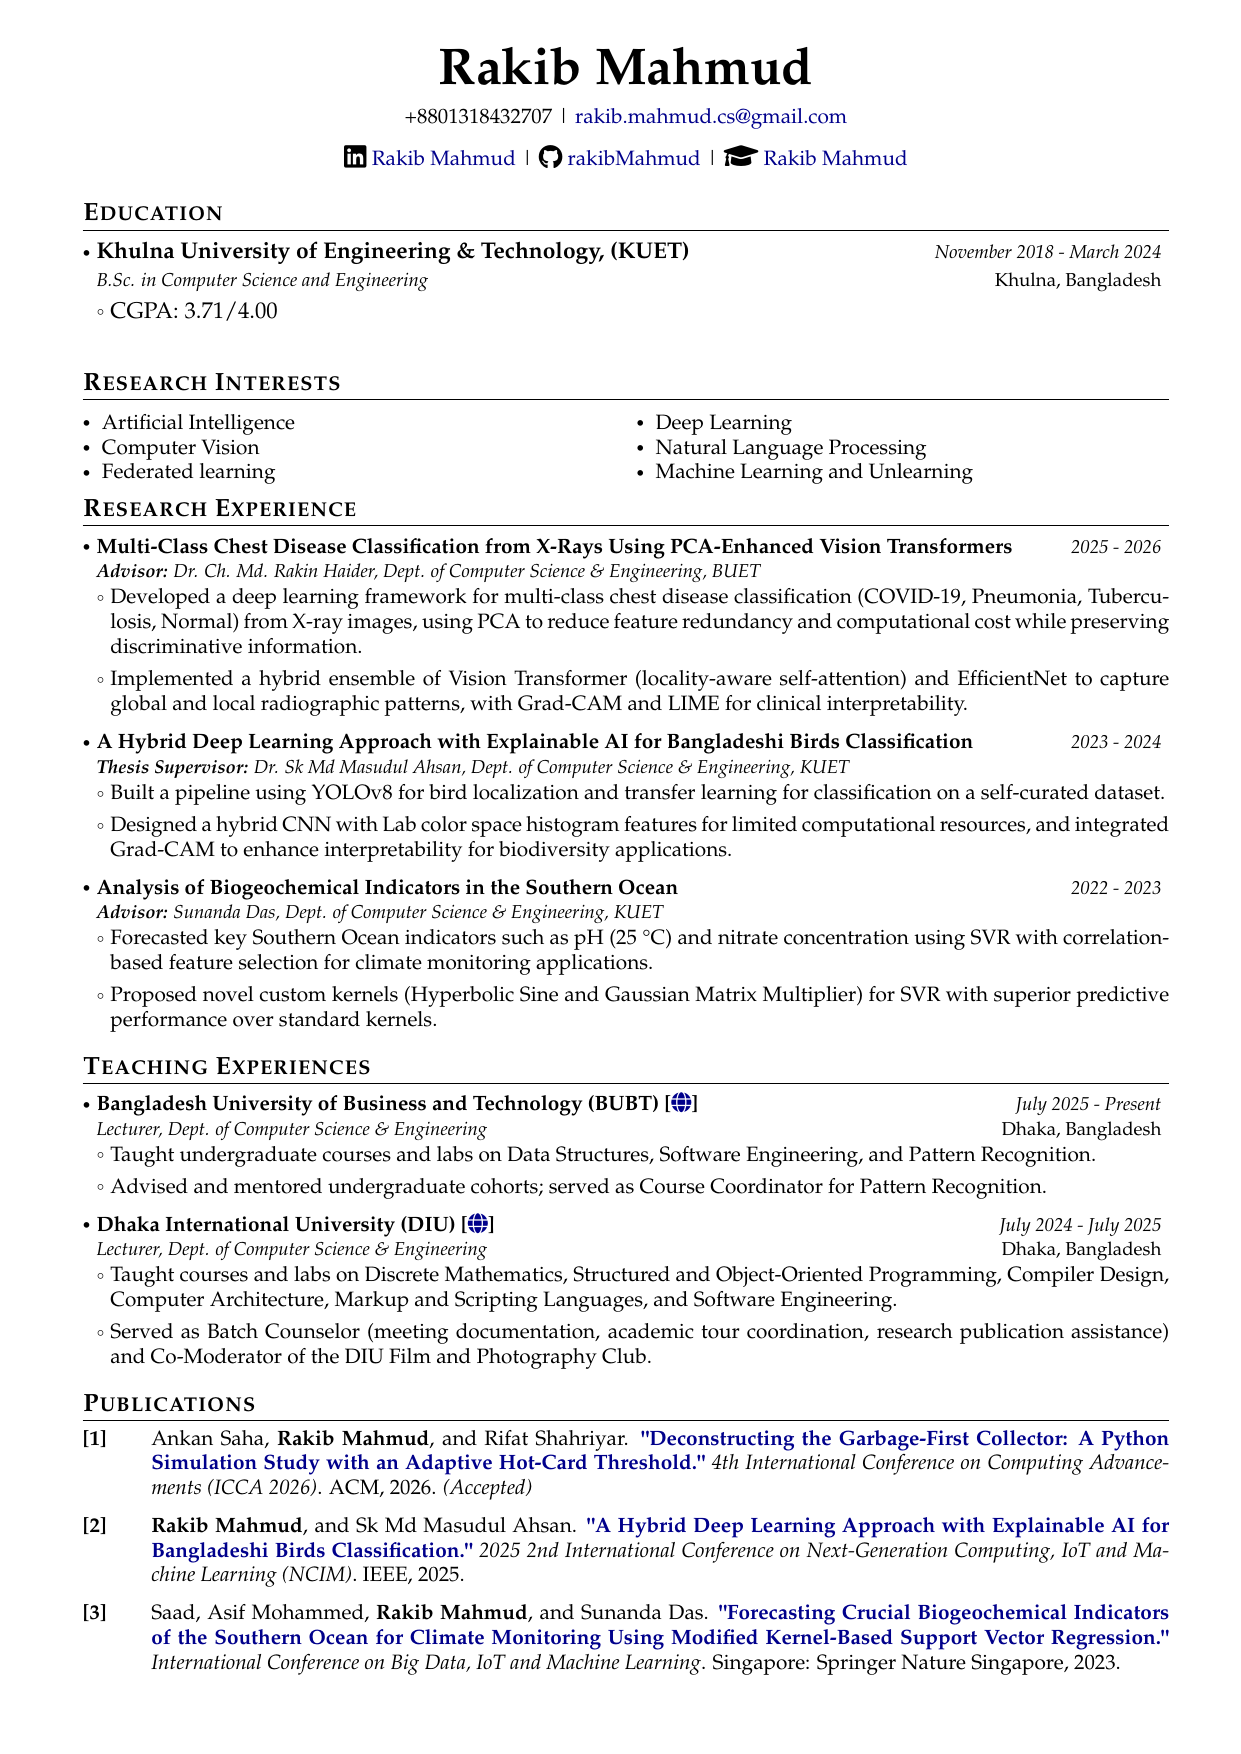
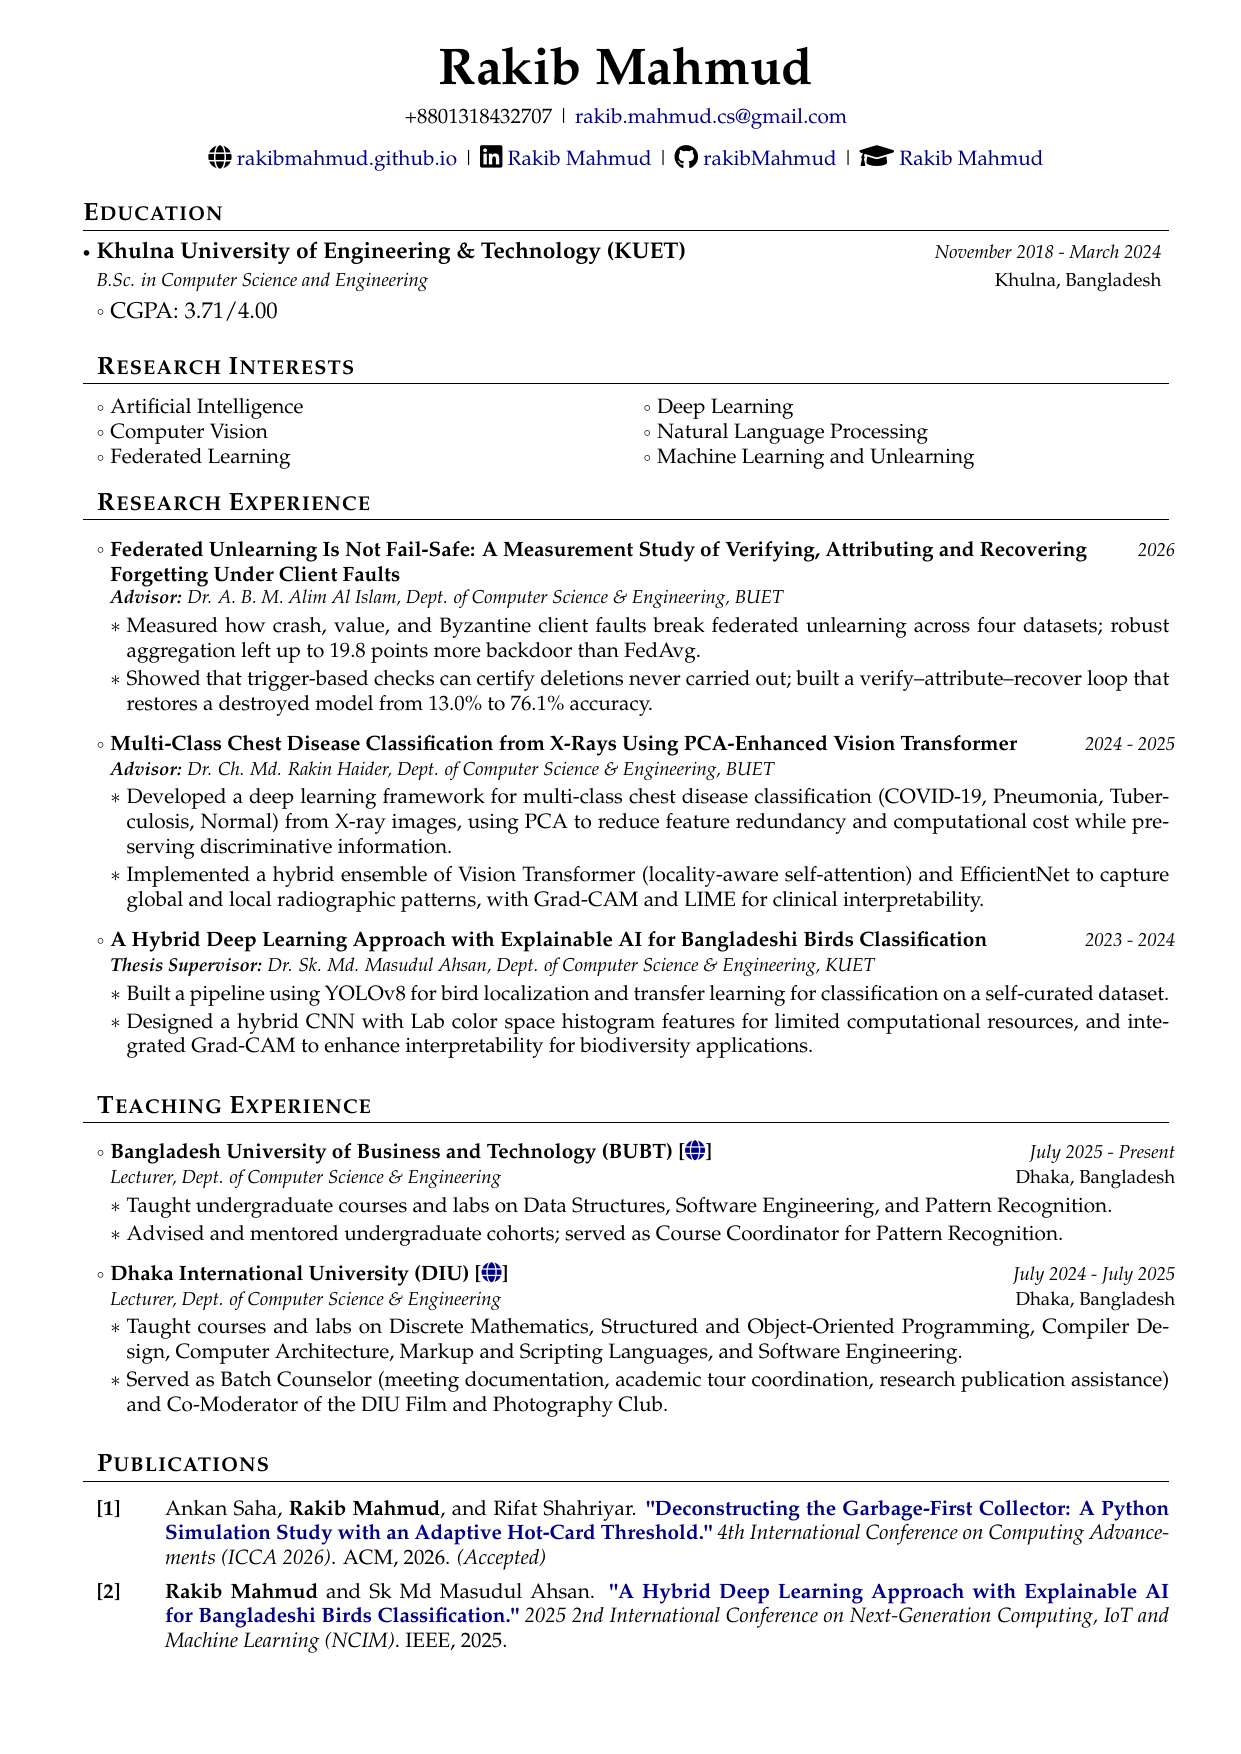
Add federated unlearning research, ORCID and updated CV

diff --git a/_research/2026-federated-unlearning.md b/_research/2026-federated-unlearning.md
@@ -1,0 +1,17 @@
+---
+title: "Federated Unlearning Is Not Fail-Safe: A Measurement Study of Verifying, Attributing and Recovering Forgetting Under Client Faults"
+collection: research
+permalink: /research/federated-unlearning
+period: "2026"
+status: "Ongoing"
+advisor: "Dr. A. B. M. Alim Al Islam"
+affiliation: "Department of Computer Science and Engineering, BUET"
+excerpt: "Measured how crash, value, and Byzantine client faults in the deletion round break federated unlearning, showed that trigger-based checks can certify deletions that never happened, and built a verify–attribute–recover loop that restores a destroyed model from 13.0% to 76.1% accuracy."
+---
+
+Federated unlearning removes a departing client's contribution from a jointly trained model without retraining from scratch. Existing methods are evaluated on federations in which every remaining participant behaves. Real federations do not: clients crash, updates are corrupted by faulty hardware or pipelines, and some participants are adversarial. This project asks whether the unlearning operation stays valid under that whole fault taxonomy, and what a coordinator can do once verification says it did not.
+
+* **Measured** how crash, value, and Byzantine faults in the deletion round make federated unlearning fail, across four datasets (MNIST, Fashion-MNIST, OrganAMNIST, CIFAR-10) and three federation sizes, over 15,335 result records. Each fault family fails in a different way.
+* **Showed** that Byzantine-robust aggregation is no remedy: four standard robust rules leave up to 19.8 points more backdoor than plain FedAvg.
+* **Tested** trigger-based forgetting verification against outcomes known by construction. A fitted-margin check certified 14% of deletion requests that were never carried out, and a no-op deletion passed as often as a real one.
+* **Built** a verify–attribute–recover loop that attributes faulty clients exactly under a stated separation condition and restores a destroyed model from 13.0% to 76.1% accuracy, reporting deletion and utility as separate verdicts with a retraining fallback.
